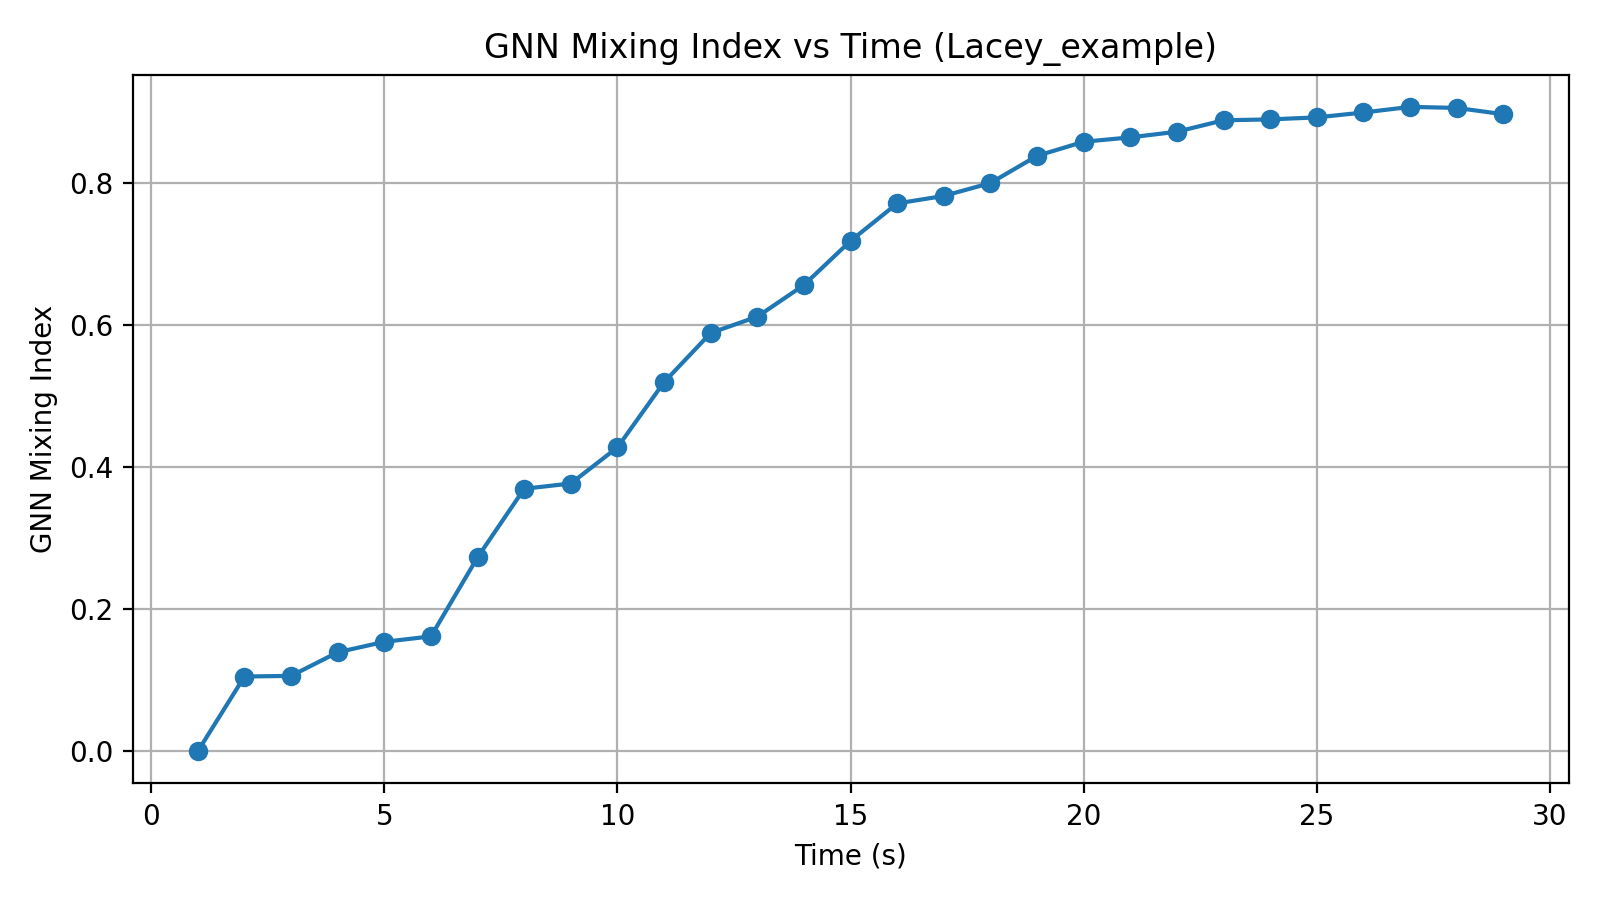
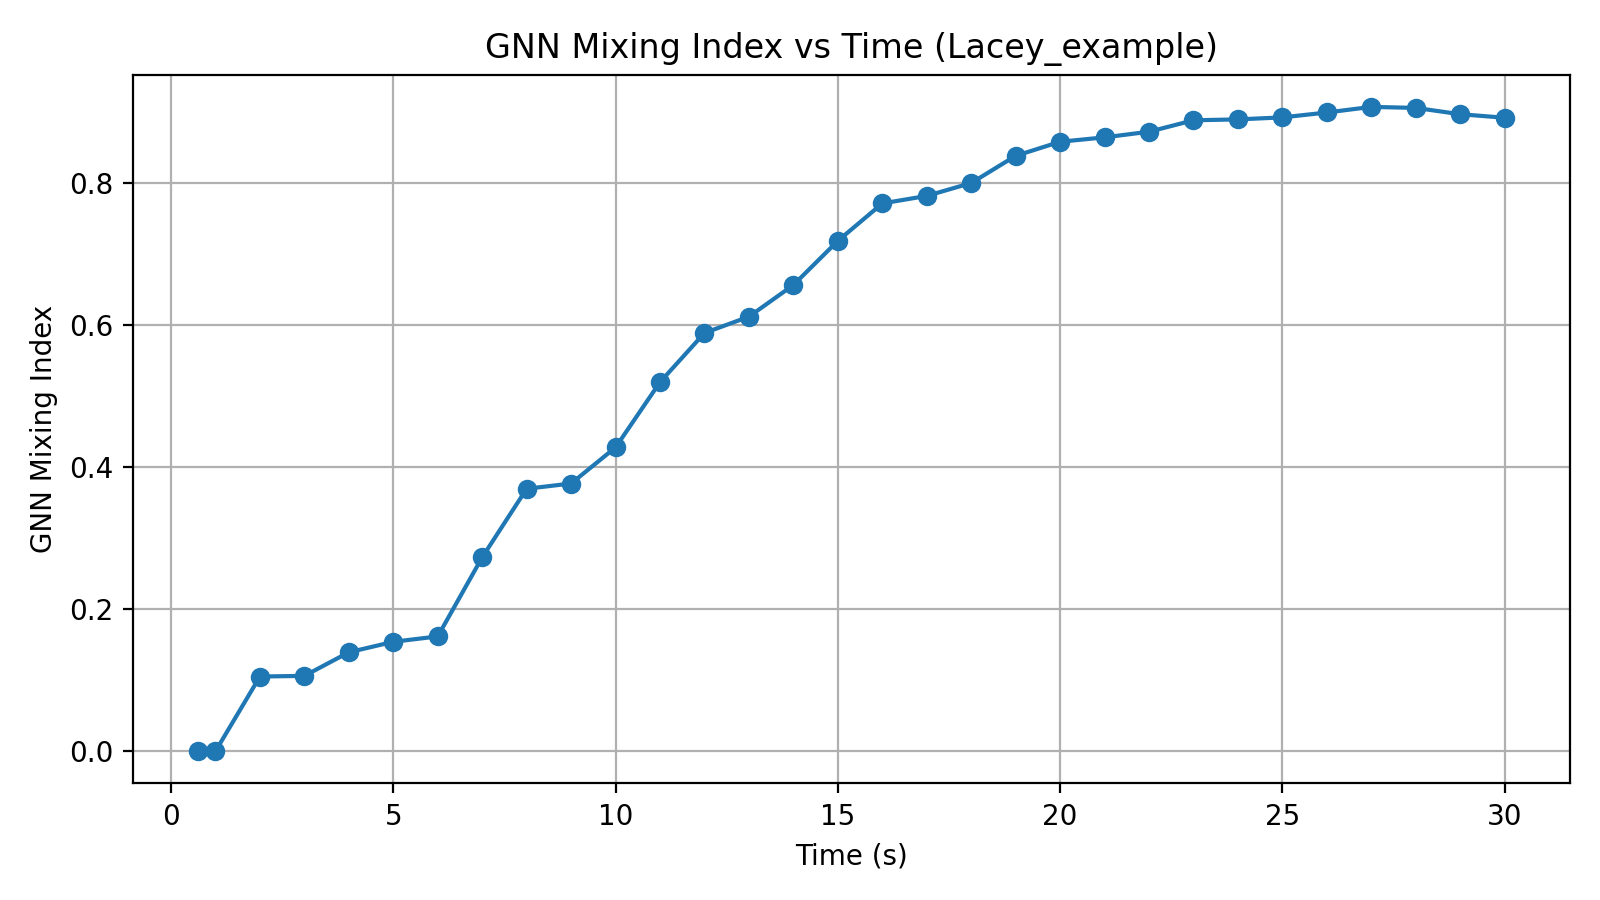
test

diff --git a/Optimal_GNN.py b/Optimal_GNN.py
@@ -211,7 +211,7 @@ def process_dem_file(dem_path: str, settings_path: str):
     # Find nearest timesteps by time
     tvals = np.array(deck.timestepValues)
     start_tstep = int(np.abs(tvals - start_time).argmin())
-    end_tstep = int(np.abs(tvals - end_time).argmin())
+    end_tstep = int(np.abs(tvals - end_time).argmin()) + 1  # inclusive
     if end_tstep <= start_tstep:
         logging.warning("end_tstep <= start_tstep -> nothing to do.")
         return

diff --git a/Lacey_RSD_Analysis.py b/Lacey_RSD_Analysis.py
@@ -44,6 +44,8 @@ For any questions or suggestions, please contact the address above
 """
 
 import numpy as np
+import matplotlib
+matplotlib.use("Agg")  # safe for headless
 import matplotlib.pyplot as plt
 from mpl_toolkits.mplot3d import Axes3D
 from math import floor

diff --git a/Generalized_Nearest_Neighbor.py b/Generalized_Nearest_Neighbor.py
@@ -6,10 +6,6 @@ import matplotlib
 matplotlib.use("Qt5Agg")
 import matplotlib.pyplot as plt
 
-import math
-import os
-import os.path
-import csv
 
 
 def Calculate_GNN_Mixing_Index(fraction_nB_nnb: np.ndarray, fraction_nA_nnb: np.ndarray, 
